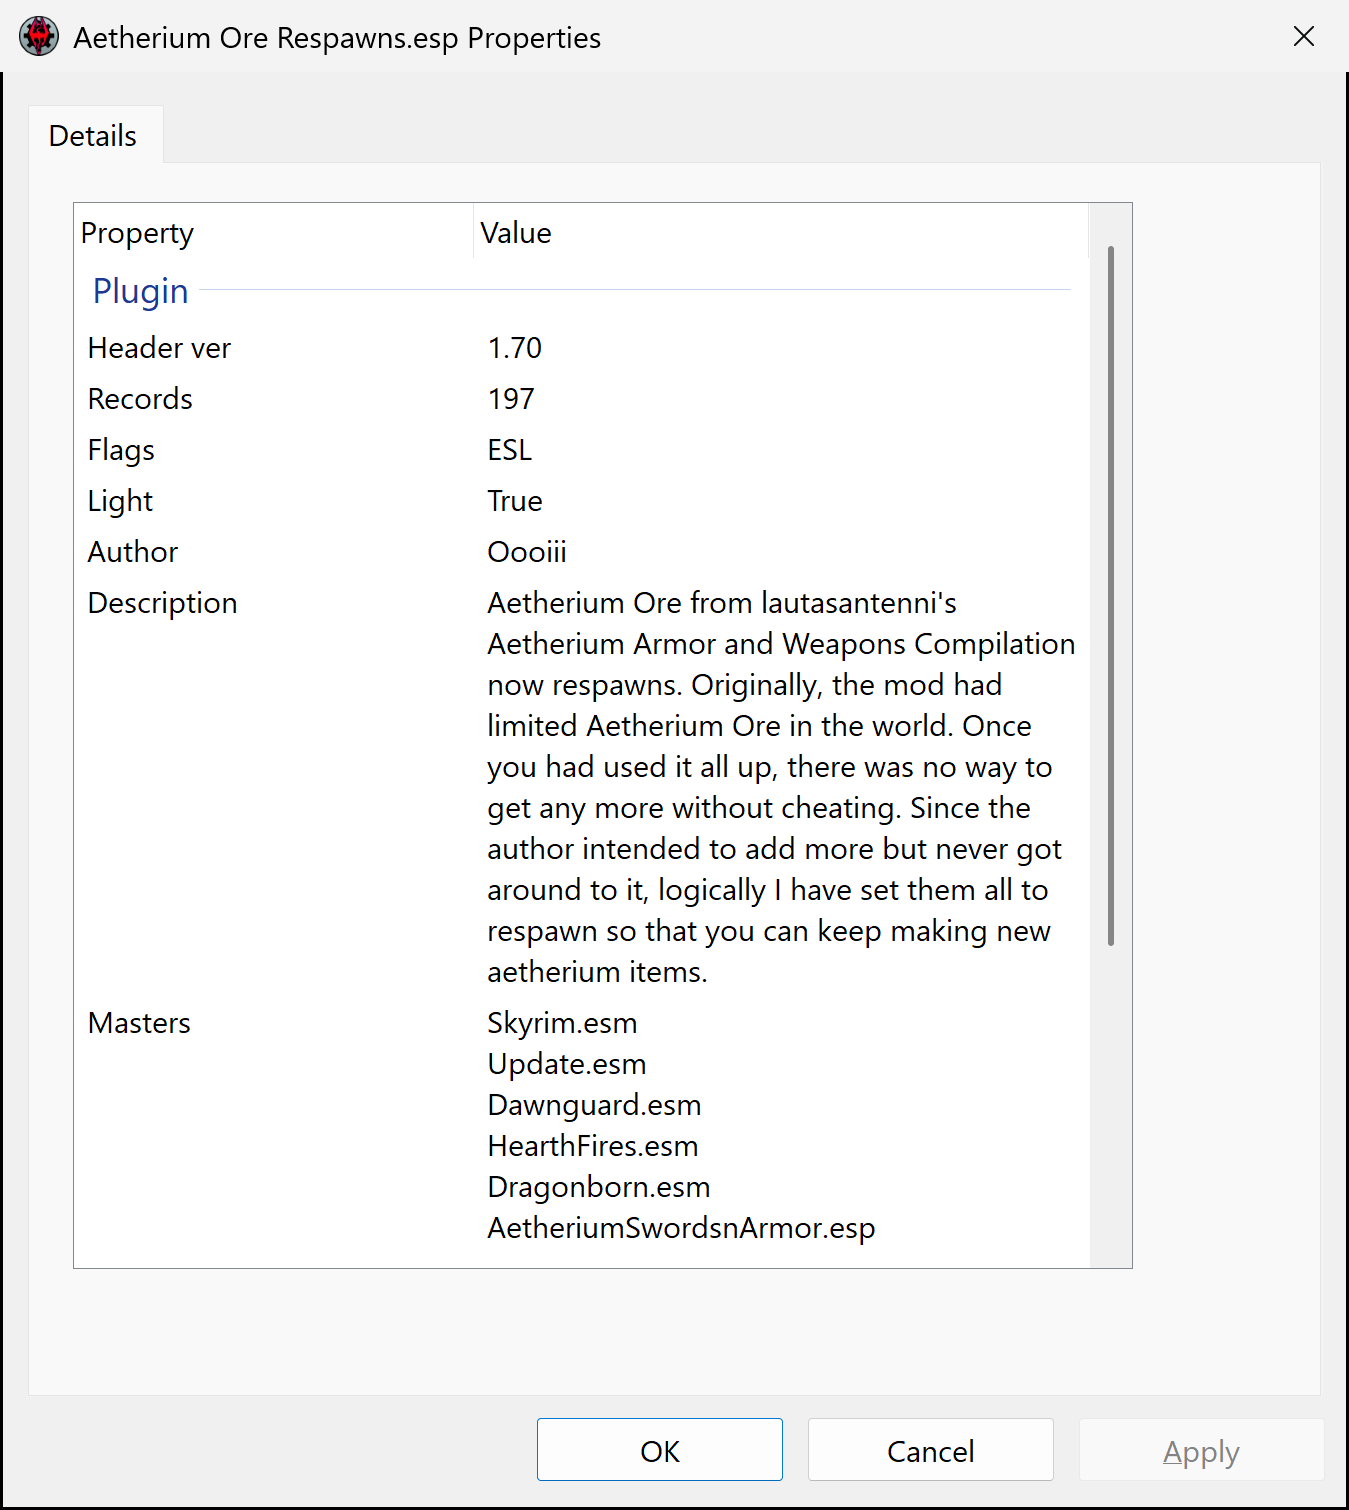
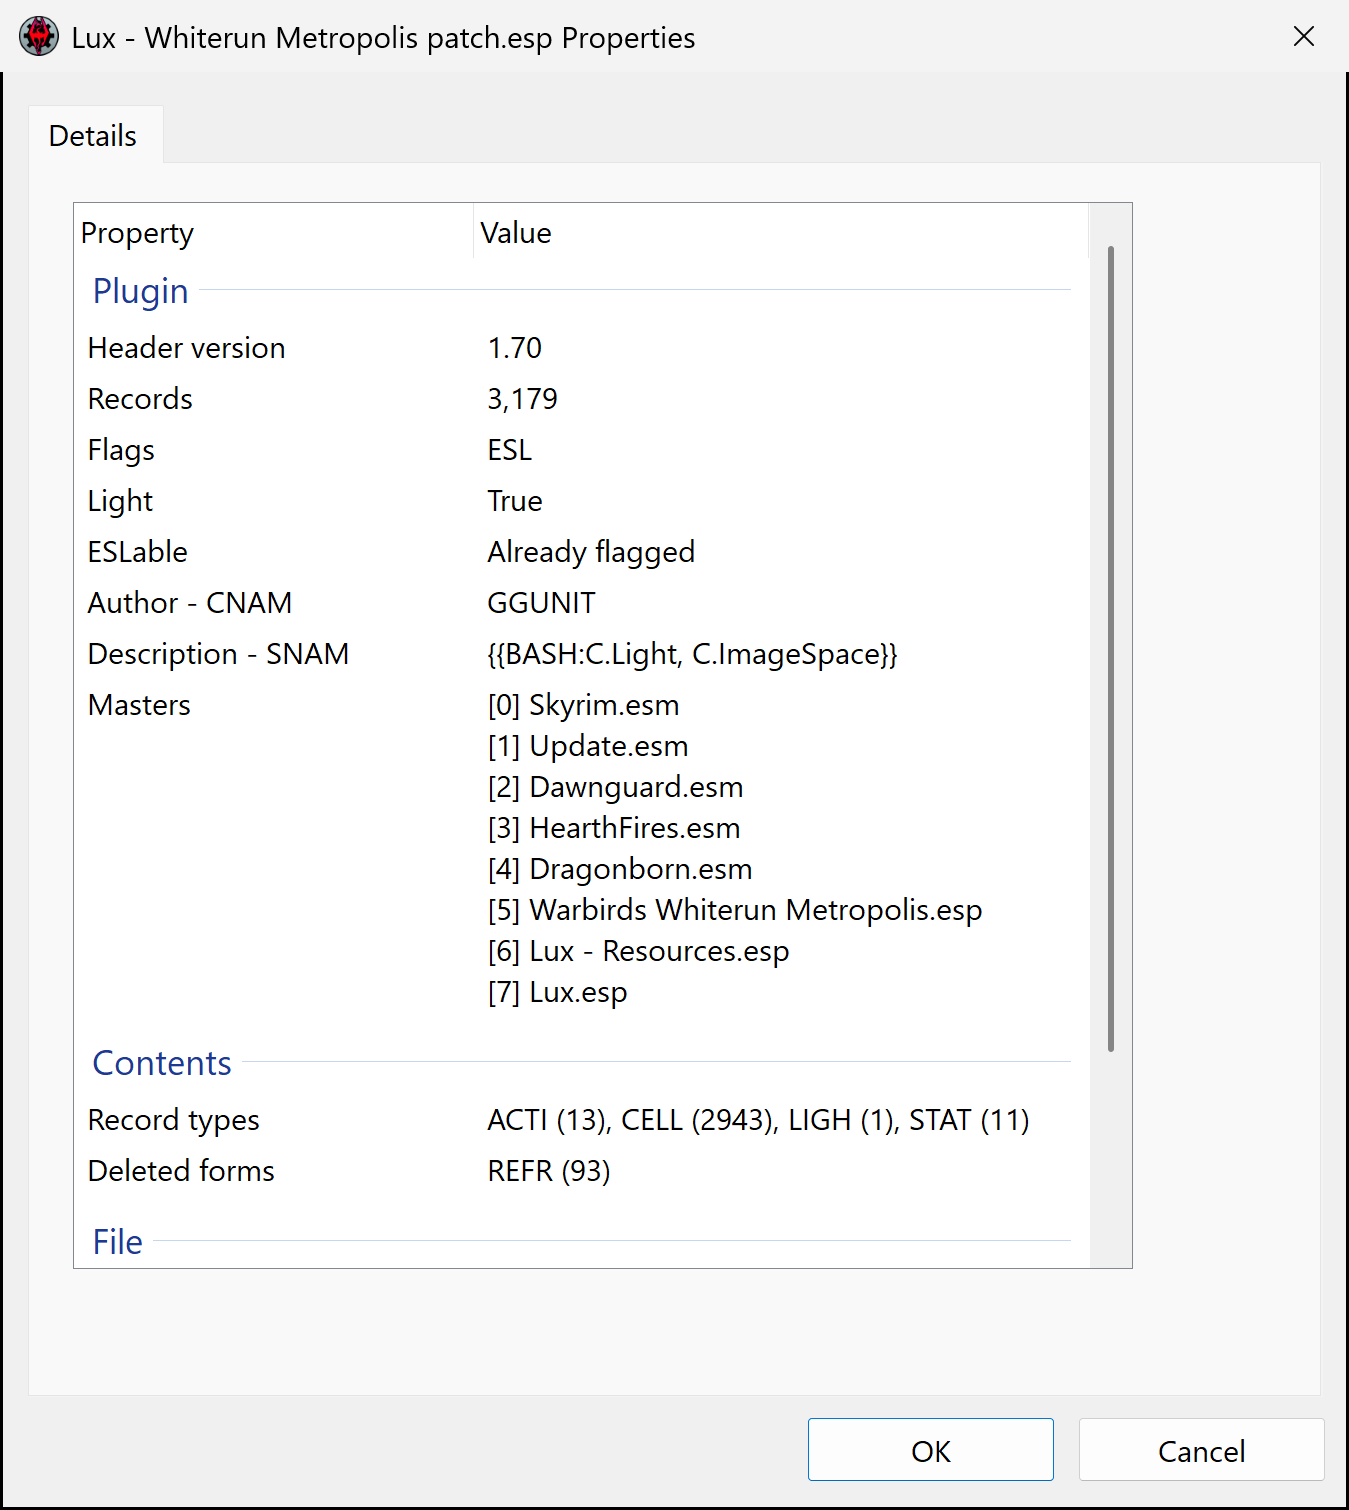
README: rewrite for users first; current screenshot
Drop the local doc path; add download, requirements, uninstall, an ESLable
section matching the current values, disclaimer and credits; update the
installer option name, tooltip contents and source layout.

diff --git a/README.md b/README.md
@@ -1,138 +1,174 @@
 # Plugin Shell Extension
 
-A Windows Explorer shell extension that adds **Plugin properties** to the
-right-click menu of Skyrim SE plugins (`.esp`, `.esm`, `.esl`). It opens a
-window styled after the Properties dialog's **Details** tab:
+A Windows Explorer extension for Skyrim Special Edition plugins (`.esp`,
+`.esm`, `.esl`). Right-click a plugin and choose **Plugin properties** to see
+what is inside it, in a window styled after the Windows Properties >
+**Details** tab. The same facts can also be shown as Explorer columns.
 
 ![screenshot](docs/screenshot.png)
 
-| Property | Source |
-|---|---|
-| Header version | `HEDR` float, rounded to 2 decimals |
-| Records | `HEDR` record count (records + GRUPs, as the CK writes it) |
-| Flags | TES4 flags as text: `ESM`, `ESL`, `Localized` |
-| Light | `.esl` extension, or the ESL flag |
-| ESLable | whether the ESL flag could be set without renumbering anything (Vortex's "Could be light", esplugin's rule): every record new to the plugin has an object ID in `0x800..0xFFF`, or `0x000..0xFFF` for HEDR 1.71+. Computed during the GRUP scan. A plugin that already loads as light shows "Already flagged" |
-| Author - CNAM | `CNAM` (wraps) |
-| Description - SNAM | `SNAM` (wraps, keeps line breaks) |
-| Masters | every `MAST`, one per line as `[index] name`, in master-index order (the index is the FormID top byte that refers to that master) |
-| Record types | top-level GRUPs, alphabetical, `LABEL (records)`; the count is every record inside the group at any depth, so `CELL` includes its placed references and `DIAL` its `INFO`s. Duplicate top-level groups (Skyrim.esm has two `HAZD`) are merged |
-| Deleted forms | records with the Deleted flag (`0x20`) among the types xEdit's Quick Auto Clean undeletes (`REFR`, `ACHR`, `PGRE`, `PMIS`, `PARW`, `PBAR`, `PBEA`, `PCON`, `PFLA`, `PHZD`) plus `NAVM`, as `TYPE (count)`; nonzero types only, "None" if there are none |
-| Size, Created, Modified, Attributes | formatted by the shell's property system, exactly as the Details tab shows them |
+It only reads plugins; it never changes them.
 
-The parsing follows `C:\skqe\db\docs\db\PLUGIN_HEADER_EXTRACTION.md`. The GRUP
-walk runs on a background thread over a memory-mapped view, so the window
-appears immediately and fills in the GRUP line when the scan finishes
-(Skyrim.esm, 250 MB, takes about a second).
+## Download
+
+Get `PluginShellExtension-<version>-setup.exe` from the
+[latest release](https://github.com/cecell/plugin-shell-extension/releases/latest).
+
+Requires Windows 10 or 11, 64-bit.
+
+## The Plugin properties window
+
+| Property | Shows |
+|---|---|
+| Header version | the `HEDR` version, e.g. `1.70` or `1.71` |
+| Records | the `HEDR` record count (records plus groups, as the Creation Kit writes it) |
+| Flags | the header flags that are set: `ESM`, `ESL`, `Localized` |
+| Light | True if the game loads the plugin as light (`.esl` file, or the ESL flag) |
+| ESLable | what it takes to make the plugin light, see [ESLable](#eslable) ("Already flagged" for light plugins) |
+| Author - CNAM | the author field, wrapped |
+| Description - SNAM | the description field, wrapped, line breaks kept |
+| Masters | one per line as `[index] name`; the index is the FormID prefix that refers to that master |
+| Record types | each top-level group with its record count, alphabetical: `CELL (2943), STAT (11), ...`. A group's count includes everything nested in it, so `CELL` includes its placed references and `DIAL` its `INFO`s |
+| Deleted forms | deleted placed objects and navmeshes by type, `REFR (93), NAVM (5)`, or "None". These are the types xEdit's Quick Auto Clean deals with (`REFR`, `ACHR`, `PGRE`, `PMIS`, `PARW`, `PBAR`, `PBEA`, `PCON`, `PFLA`, `PHZD`) plus `NAVM` |
+| Size, Created, Modified, Attributes | formatted exactly as Windows' own Details tab shows them |
+
+The header fields appear at once. Record types, Deleted forms and ESLable need
+a pass over every record, which runs in the background and fills in a moment
+later (Skyrim.esm, 250 MB, takes about a second).
 
 Right-click a row to copy its value or the whole table. The Property column
-can be resized, and so can the window.
+and the window can be resized.
 
-The window is per-monitor DPI aware: it is laid out for the scale of the
-monitor it opens on and re-laid out when dragged to a monitor with a
-different scale. It follows the Windows app mode (Settings > Personalization >
-Colors). Dark mode gets a dark title bar, tab, list, header, scrollbar and
-buttons, and the window switches live when the setting changes. With high
-contrast on, it uses the high-contrast system colours instead.
+The window follows the Windows light/dark app mode (Settings >
+Personalization > Colors), switching live when it changes, and uses the
+high-contrast colours when high contrast is on. It scales for the display it
+is on, including when dragged to a monitor with a different scale.
 
-## Install
+### ESLable
 
-Run `PluginShellExtension-<version>-setup.exe` (from the GitHub release, or
-`build\` after a local build), a standard Inno Setup wizard. It installs for the current user (no admin prompt) into
-`%LOCALAPPDATA%\Programs\Plugin Shell Extension`, registers the handler under
-`HKCU\Software\Classes`, and adds **Plugin Shell Extension** to **Settings > Apps**
-for uninstalling. Installing over an older version works while Explorer has
-the DLL loaded: the old file is moved aside rather than Explorer being closed.
-Restart Explorer (or sign out) to pick up the new version.
+| Value | Meaning |
+|---|---|
+| Already | already light (ESL flag or `.esl`); the window says "Already flagged" |
+| True | can be ESL-flagged as it is: header below 1.71 with up to 2,048 new records, all in `800`-`FFF`, or header 1.71 or later with up to 4,096 new records, all in `000`-`FFF`. A plugin with no new records (overrides only) is True |
+| Save in CK | header below 1.71, all new records in `000`-`FFF` but not within the old limits (IDs below `800`, or 2,049-4,096 of them). Resaving it in the newer Creation Kit gives it a 1.71 header, after which it fits |
+| False | anything else. This includes plugins that could only be made light by renumbering (compacting) their FormIDs, an advanced step this tool does not suggest |
+| Corrupted | the file could not be read to the end |
 
-Pre-release builds before 0.90 used a different name. If one is installed,
-setup asks you to uninstall it first (Settings > Apps), because both use the
-same registry keys.
-
-Silent install / uninstall use the usual Inno switches:
-`PluginShellExtension-<version>-setup.exe /VERYSILENT`, and
-`unins000.exe /VERYSILENT` in the install folder.
-
-Run setup from Explorer or a normal terminal. A process started from inside a
-packaged (MSIX) app, such as a terminal in the Claude desktop app, gets a
-private copy of `HKCU`, so the registration lands where Explorer never looks.
-The install then appears to succeed and tests run from that same app pass, but
-the menu entry never shows up.
-
-On Windows 11 the entry is in the classic menu (**Show more options** or
-Shift+right-click). Getting into the new top-level menu needs an
-`IExplorerCommand` handler plus a signed sparse MSIX package, which this
-project does not do.
-
-The wizard follows the Windows light/dark mode. It opens on the GPL-3.0 licence, which must be accepted to continue,
-and offers to open this README when it finishes.
+"New records" are the plugin's own records, not its overrides of master
+records. When a True or Save in CK result relies on IDs below `800`, the window
+(ESLable row tooltip), the file tooltip and the details pane add **Requires
+v1.6.1130 or later**: older game versions cannot load such plugins as light.
 
 ## Explorer columns, details pane and tooltip
 
-The setup task **Add plugin fields as Explorer columns…** (on by default)
-registers a property handler, so plugin fields become ordinary shell
-properties:
+The setup option **Add columns to Explorer, the details pane and files
+tooltip** (on by default) makes these fields available in Explorer:
 
 | Column | Value |
 |---|---|
-| Header Ver | `HEDR` version, e.g. `1.71` |
-| #Records | `HEDR` record count (number, sorts numerically) |
+| Header Ver | the header version, e.g. `1.71` |
+| #Records | the header record count (sorts as a number) |
 | Flags | `ESM, ESL, Localized` |
-| Is Light | True / False (centred) |
+| Is Light | True / False |
 | #Masters | number of masters |
-| #Deleted | deleted references + navmeshes (the Deleted forms total), a hint that the plugin needs cleaning; blank when there are none |
-| ESLable | Already (already light); True (fits as is: header < 1.71 with up to 2,048 new records in 800-FFF, or 1.71+ with up to 4,096 in 000-FFF; overrides only counts as True); Save in CK (header < 1.71, all new IDs in 000-FFF but not the old rules, fits once resaved with a 1.71 header); False (anything else, including plugins that would need compacting, which is not suggested); Corrupted (the file could not be read to the end). When the result needs IDs below 800, the file tooltip, the details pane and the window add "Requires v1.6.1130 or later" |
+| #Deleted | the Deleted forms total, a hint that the plugin may need cleaning; blank when there are none |
+| ESLable | Already, True, Save in CK, False or Corrupted, as above |
 
-Turn them on in Details view: right-click a column header > **More…**. The
-details pane (Alt+Shift+P) shows all of them plus the masters list, and the
-tooltip when hovering a plugin lists `#Records` and its masters.
+Turn the columns on in Details view: right-click a column header > **More...**.
+The details pane (Alt+Shift+P) shows all of them plus the masters, and the
+tooltip when hovering a plugin shows #Records, the masters and, when it
+applies, the ESLable note.
 
-#Deleted and ESLable need a walk over every record header, so Explorer fills
-them in after the other columns. Results are cached per Explorer process by
-file name, size and modification time, so refreshing a folder does not rescan.
+#Deleted and ESLable fill in after the other columns, because they need the
+pass over every record. Results are remembered per Explorer session, so
+refreshing a folder does not scan the plugins again.
 
-Windows only accepts property handlers and their schema
-(`PluginShellExtension.propdesc`) registered machine-wide, so this task asks for
-administrator rights (it runs `regsvr32 /n /i:columns` elevated; `/u` undoes
-it, as the uninstaller does). Everything else stays per user. Restart Explorer
-after installing so it loads the new schema.
+Windows only accepts these properties registered for the whole machine, so
+this option asks for administrator rights once. The rest of the extension is
+installed for your user only. Restart Explorer after installing so it picks up
+the columns.
 
-## Licence
+## Install and uninstall
 
-GPL-3.0. See [LICENSE](LICENSE).
+Run the setup. It opens on the GPL-3.0 licence, which has to be accepted,
+installs for the current user into
+`%LOCALAPPDATA%\Programs\Plugin Shell Extension` without an admin prompt
+(apart from the optional columns), and offers to open this README at the end.
 
-## Official builds and verification
+On Windows 11 the menu item is in the classic menu: right-click > **Show more
+options**, or Shift+right-click.
 
-Release files are built by GitHub Actions (`.github/workflows/build.yml`) on a
-clean Windows runner, not on a developer PC:
+To update, run the newer setup; it works while Explorer still has the old
+version loaded. Restart Explorer or sign out afterwards to use the new one.
 
-- the compiler is pinned to MSVC 14.44, and its version is printed in the log
+To uninstall, use Settings > Apps > Installed apps > **Plugin Shell
+Extension**.
+
+Silent install and uninstall use the usual Inno Setup switches:
+`PluginShellExtension-<version>-setup.exe /VERYSILENT`, and
+`unins000.exe /VERYSILENT` in the install folder.
+
+Pre-release builds before 0.90 used a different name. If one is installed,
+setup asks you to uninstall it first, because both use the same registry keys.
+
+Run setup from Explorer or a normal terminal. Started from inside a packaged
+(MSIX) app, such as some app-integrated terminals, its registry writes go to
+that app's private copy of the registry, and the menu item never appears in
+Explorer.
+
+## Verifying a download
+
+Release files are built by GitHub Actions
+([`.github/workflows/build.yml`](.github/workflows/build.yml)) on a clean
+Windows runner, not on a personal PC:
+
+- the compiler is pinned to MSVC 14.44, and its exact version is in the log
 - Inno Setup 7.1.1 is downloaded from its official release and checked
   against a pinned SHA-256 before use
-- every run publishes `SHA256SUMS.txt` for the DLL and the installer, both
-  in the run summary and in the downloadable artifact
-- a GitHub Release publishes one run's artifact unchanged, so its files are
-  byte for byte the ones that run hashed; the release notes link the run
+- every run publishes `SHA256SUMS.txt` for the DLL and the installer, in the
+  run summary and in its downloadable artifact
+- a release attaches one run's files unchanged, so they are byte for byte the
+  files that run hashed; the release notes link the run and the VirusTotal
+  reports
 - runs since the repository became public also attach signed build
-  provenance that ties each file's hash to the commit and the run:
+  provenance, which ties each file's hash to the commit and the run:
 
 ```
 gh attestation verify PluginShellExtension-<version>-setup.exe --repo cecell/plugin-shell-extension
 ```
 
 0.90 was built while the repository was still private, so it has no
-provenance attestation; its run log and artifact are public and carry the
-same SHA-256 values as the release.
+provenance attestation. Its run log and artifact are public and carry the same
+SHA-256 values as the release.
 
-A local build does not reproduce the official hashes byte for byte (the linker
-stamps build times), so compare downloads against the published list.
+To check a file yourself: `sha256sum -c SHA256SUMS.txt`, or `Get-FileHash
+<file>` in PowerShell. A local build will not reproduce the official hashes,
+because the linker stamps build times into the files.
 
-## Build
+## Licence and disclaimer
 
-Requires Visual Studio with the MSVC 14.44 (v143) toolset; CMake and Ninja come
-from the VS install / PATH. The installer needs Inno Setup 6.6 or newer
-(`winget install JRSoftware.InnoSetup`). Without it the build still produces
-the DLL and skips the installer.
+GPL-3.0, see [LICENSE](LICENSE).
+
+The software is provided "as is", without warranty of any kind, to the extent
+permitted by applicable law. See sections 15 and 16 of the licence for the
+full terms.
+
+## Credits
+
+The installer is built with [Inno Setup](https://jrsoftware.org/),
+Copyright (C) Jordan Russell.
+
+Plugin Shell Extension was written with the assistance of Claude by Anthropic.
+Many have negative feelings towards AI but it has been a life saver for people
+like me who struggle with cognitive disabilities. I hope this software is
+helpful.
+
+## Building from source
+
+Requires Visual Studio with the MSVC 14.44 (v143) toolset; CMake and Ninja
+come with Visual Studio. The installer needs Inno Setup 6.6 or newer
+(`winget install JRSoftware.InnoSetup`); without it the build still produces
+the DLL.
 
 ```
 build.cmd
@@ -140,38 +176,42 @@ build.cmd
 
 Outputs, in `build\`:
 
-- `bin\PluginShellExtension.dll`: the shell extension (static CRT, no redistributable needed)
-- `PluginShellExtension-<version>-setup.exe`: the installer (script in `installer\PluginShellExtension.iss`)
-- `plugininfo.exe <plugin>...`: console dump of the same fields, plus a self-check that walked records + GRUPs equal the HEDR count
-- `menutest.exe <plugin> [--invoke]`: builds Explorer's context menu for a file and checks the entry is there (and opens)
-- `proptest.exe <dll> <plugin>...`: loads the property handler from the DLL without registering it, feeds it a file stream as Explorer does, and prints every column value
+- `bin\PluginShellExtension.dll`: the extension (static CRT, no redistributable needed)
+- `PluginShellExtension-<version>-setup.exe`: the installer
+- `plugininfo.exe <plugin>...`: prints the same fields, plus a self-check that the records and groups walked add up to the header count
+- `menutest.exe <plugin> [--invoke]`: builds Explorer's right-click menu for a file and checks the item is there (and opens)
+- `proptest.exe <dll> <plugin>...`: loads the property handler from the DLL without registering it, feeds it a file the way Explorer does, and prints every column value
 
-## Testing without installing
+### Testing without installing
 
 ```
 rundll32 build\bin\PluginShellExtension.dll,ShowProperties C:\path\to\Plugin.esp
 rundll32 build\bin\PluginShellExtension.dll,Snapshot "C:\path\to\Plugin.esp" "C:\out.png"
 ```
 
-`Snapshot` renders the window to a PNG once the GRUP scan finishes (`snap.sh`
-wraps it). `regsvr32 build\bin\PluginShellExtension.dll` registers the build output
+`Snapshot` renders the window to a PNG once the scan finishes (`snap.sh` wraps
+it). `regsvr32 build\bin\PluginShellExtension.dll` registers the build output
 for the current user (`/u` to undo).
 
-Set `PSE_LOG=C:\some\file.log` in a process's environment, or the
-registry value `HKCU\Software\PluginShellExtension\LogFile`, to trace the
-handler's calls. Create an empty `load_trace.log` next to the DLL to log every
-process that loads it.
+Debugging switches:
 
-For screenshots of other looks: `PSE_THEME=dark` or `light` forces the
-theme, and `PSE_DPI_UNAWARE=1` renders the 100% layout.
+- `PSE_LOG=C:\some\file.log` in a process's environment, or the registry value
+  `HKCU\Software\PluginShellExtension\LogFile`, traces the handler's calls
+- an empty `load_trace.log` next to the DLL logs every process that loads it
+- `PSE_THEME=dark` or `light` forces the theme, `PSE_DPI_UNAWARE=1` renders the
+  100% layout, and `PSE_TEST_HIGHLIGHT=1` makes `Snapshot` show a selected
+  and a hovered row
 
-## Layout
+### Source layout
 
-- `src/plugin_parser.*`: TES4 header + GRUP walk (bounds-checked; the mapped walk runs under SEH)
-- `src/property_window.*`: the dialog and its custom Property/Value list, needed because a ListView cannot give rows different heights
-- `src/context_menu.*`: `IShellExtInit` + `IContextMenu` + class factory
-- `src/registration.*`: registry layout for `regsvr32` (the installer writes the same keys from `installer/PluginShellExtension.iss`)
-- `src/dllmain.cpp`: COM exports, `DllRegisterServer`/`DllInstall`, rundll32 entry points
-- `src/property_handler.*`: the Explorer property handler (columns / details pane / tooltip), reading from the stream Explorer passes
-- `installer/PluginShellExtension.propdesc`: the property schema (names, labels, types)
+- `src/plugin_parser.*`: reads the plugin header and walks the groups (bounds-checked; reads files or Explorer's streams)
+- `src/property_window.*`: the window and its Property/Value list (custom, because a ListView cannot give rows different heights)
+- `src/context_menu.*`: the right-click menu handler
+- `src/property_handler.*`: the Explorer property handler behind the columns, details pane and tooltip
+- `src/registration.*`: registry layout for `regsvr32`; the installer writes the same keys
+- `src/dllmain.cpp`: COM exports and the `rundll32` entry points
 - `installer/PluginShellExtension.iss`: the Inno Setup installer
+- `installer/PluginShellExtension.propdesc`: the property schema (names, labels, types, alignment)
+- `installer/icon/`: the installer icon and its source image
+- `tools/`: `plugininfo`, `menutest`, `proptest`
+- `.github/workflows/build.yml`: the official build
